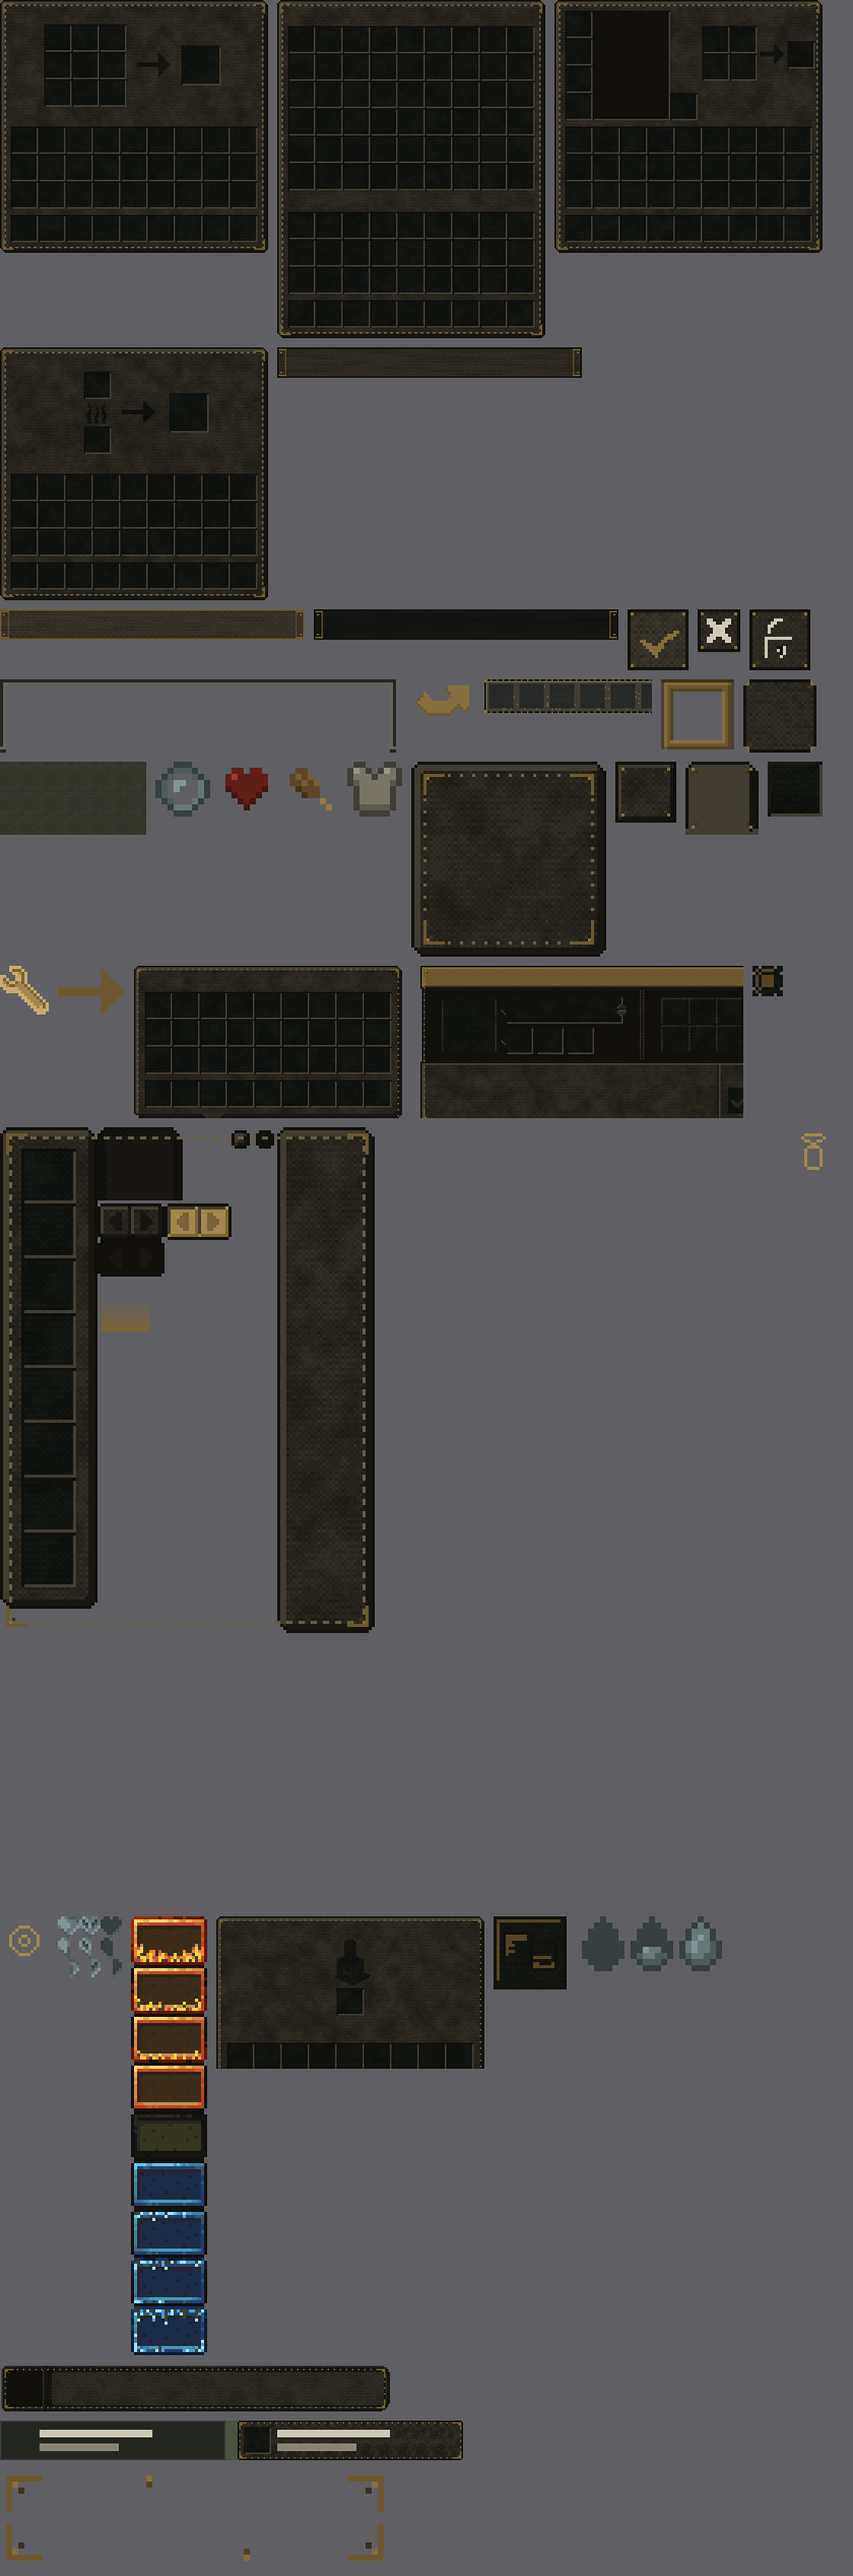
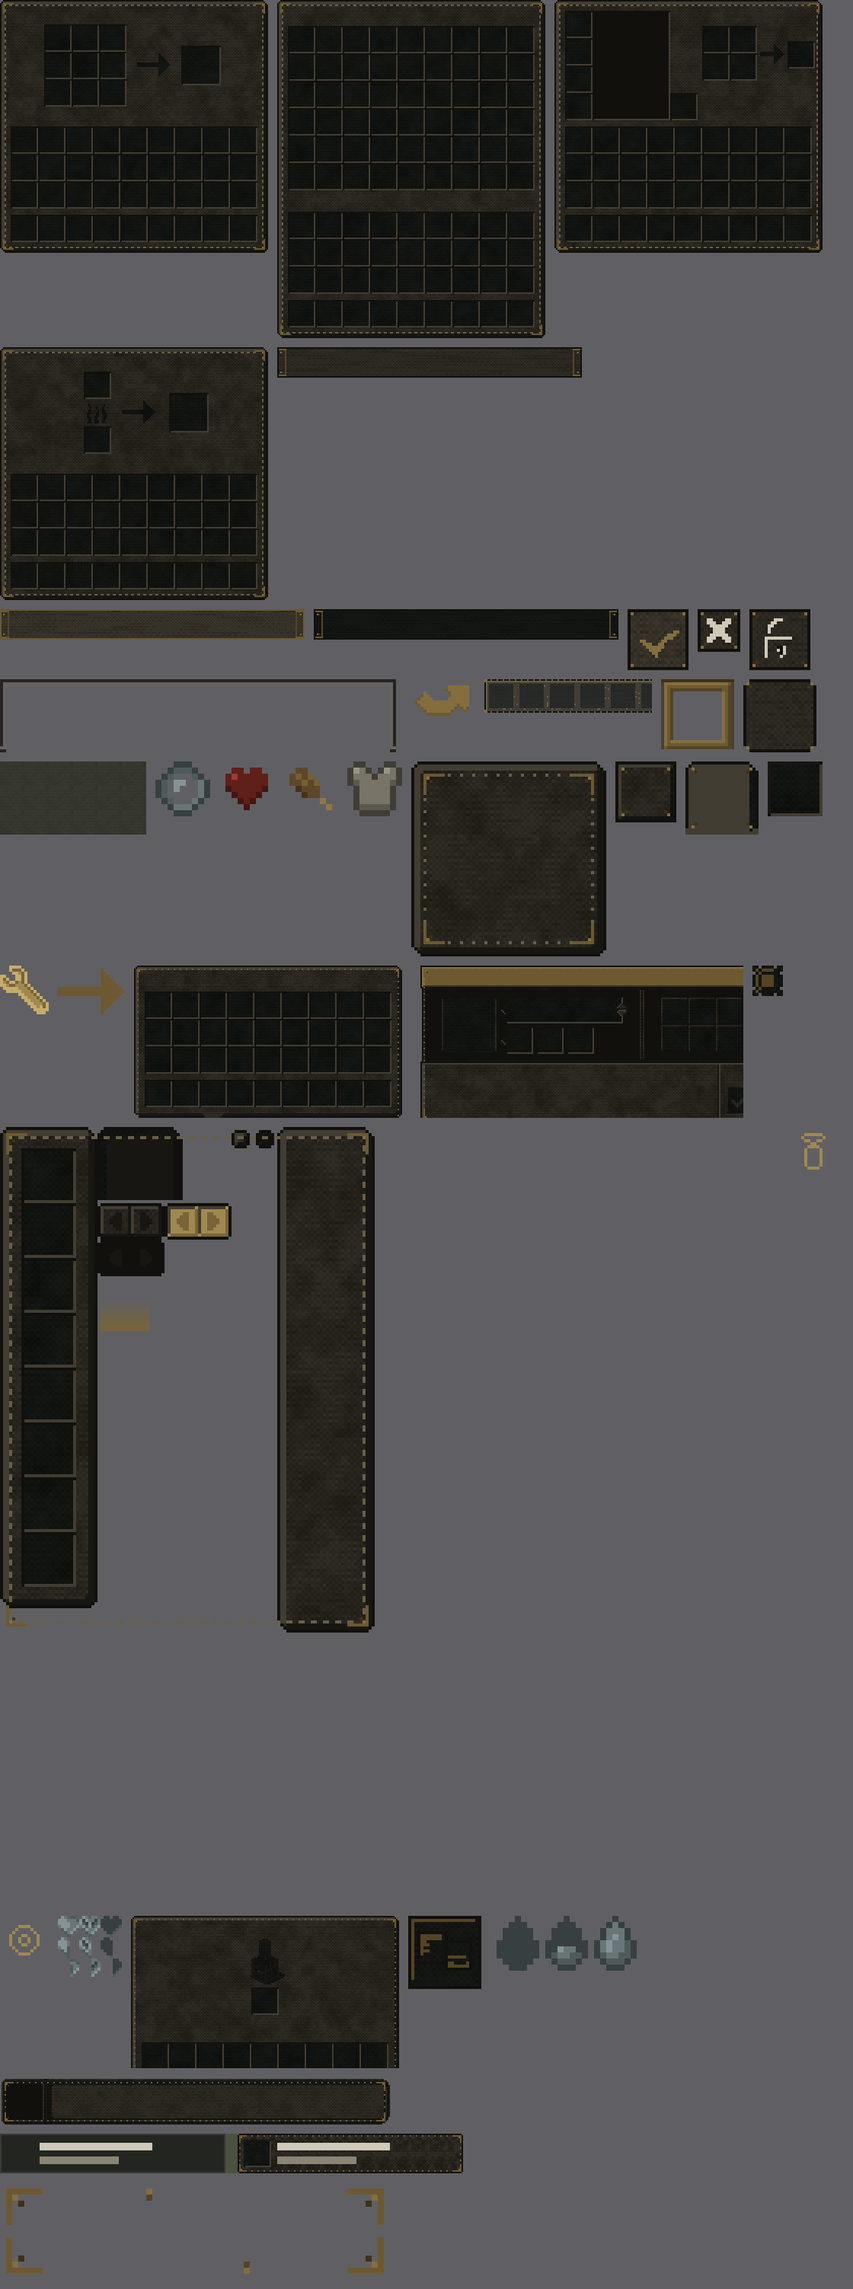
Шкалы ColdSweat — мимо пака: их красит код мода
Владелец увидел в игре сплошной чёрный или красный значок
холода-жара. Белое поле шкалы — не оправа, а холст, в который мод
подмешивает цвет по показанию; кожа лазарета тёмная, и умножение
давало черноту.

Общее правило: текстуру, нарисованную белым и серым там, где в игре
она цветная, красит код, и паку её трогать нельзя. Раскрашенное
самим модом (замёрзшие сердца, капли жажды) приходит цветным —
его перекрашивать безопасно.

Убраны шкалы температуры со всеми вариантами, капли пота, топливо
и лампа очага, полосы подсказок. ColdSweat: 64 → 44 текстуры,
пак: 294 → 274 файла.

diff --git a/tools/ui-gfx/графика.py b/tools/ui-gfx/графика.py
@@ -830,7 +830,22 @@ def одеть_curios(показать):
 # Поэтому шкалы идут обычной `перекрасить` с `беречь_цвет`: у них
 # насыщено четыре пикселя из пяти, и красить там нечего, кроме оправы.
 
-ХОЛОД_МИМО = ("overlay/haze",)   # полноэкранная марь — картинка, а не оправа
+# Чего пак не трогает вовсе.
+#
+# `haze` — полноэкранная марь: картинка, а не оправа.
+#
+# Всё остальное здесь мод красит **кодом**. Шкалы температуры, топливо
+# очага и лампа нарисованы белым и серым не по бедности: ColdSweat
+# подмешивает в это поле цвет по показанию, и светлая заливка ему
+# нужна как холст. Первая проба увела холст в тёмную кожу, и умножение
+# дало сплошную черноту или сплошной красный — прибор перестал
+# читаться. Отличить такие текстуры от обычных просто: тонированное
+# мод рисует серым, а то, что раскрашено само (замёрзшие сердца,
+# капли жажды), приходит уже цветным.
+ХОЛОД_МИМО = ("overlay/haze", "overlay/world_temp", "overlay/body_temp",
+              "overlay/vague_temp", "overlay/droplet",
+              "sprites/hearth/fuel_gauge", "sprites/hearth/power_indicator",
+              "tooltip/")
 # Силуэты гнёзд и одиночные глифы: контур нарисован одним цветом,
 # порогами он разбирается в кашу. Латунью, как пустые гнёзда Curios.
 ХОЛОД_ГЛИФЫ = ("sprites/sewing/", "sprites/config/clientside_icon",
@@ -863,7 +878,7 @@ def одеть_холод(показать):
             if not имя.endswith(".png") or "/textures/gui/" not in имя:
                 continue
             хвост = имя.split("/textures/gui/")[1][:-4]
-            if хвост in ХОЛОД_МИМО:
+            if хвост.startswith(ХОЛОД_МИМО):
                 continue
             им = Image.open(io.BytesIO(z.read(имя)))
             сид = zlib.crc32(хвост.encode())
@@ -900,7 +915,7 @@ def одеть_холод(показать):
             цель.parent.mkdir(parents=True, exist_ok=True)
             им.save(цель)
             одето += 1
-            if хвост in ("overlay/world_temp_gauge", "overlay/hearts_frozen",
+            if хвост in ("overlay/hearts_frozen",
                          "sprites/config/config_button"):
                 им = им.convert("RGBA")
                 показать.append(им.resize((им.width * 2, им.height * 2),

diff --git a/docs/superpowers/notes/2026-09-18-resurspak-lazaret-ui.md b/docs/superpowers/notes/2026-09-18-resurspak-lazaret-ui.md
@@ -295,3 +295,25 @@ resourcepacks/lazaret_ui-превью.png  контрольный лист
 
 Пак вырос с 227 файлов до 294. **Живьём по-прежнему не проверено** —
 судить можно только по контрольному листу.
+
+### Правка по итогам игры: тонируемое мод красит сам
+
+Владелец посмотрел HUD в игре: значок холода-жара стал сплошным
+чёрным или сплошным красным. Причина не в порогах, а в том, что
+**ColdSweat красит шкалы кодом**. Белое поле внутри рамки — не оправа,
+а холст, в который мод подмешивает цвет по показанию. Кожа лазарета
+тёмная, и умножение цвета на неё даёт черноту; там, где подмешивался
+красный, — сплошной красный без внутреннего рисунка.
+
+Правило, которое из этого следует и которое стоит держать в голове
+на будущих модах: **если текстура нарисована белым или серым там, где
+в игре она цветная, её красит код, и паку её трогать нельзя.** То, что
+мод раскрашивает сам (замёрзшие сердца, капли жажды), приходит из
+джарника уже цветным — такие текстуры перекрашивать безопасно.
+
+Из пака убраны и в `ХОЛОД_МИМО` внесены: все шкалы температуры
+(мировая, телесная, смутная, с вариантами `_hc` и `standalone`),
+капли пота, шкалы топлива очага, лампа очага и полосы в подсказках
+(утепление, топливо лампы). Осталось 44 текстуры ColdSweat вместо 64:
+окна, кнопки настроек, гнёзда швейного стола, замёрзшие сердца
+и подложка значка еды. Пак: 294 → 274 файла.
